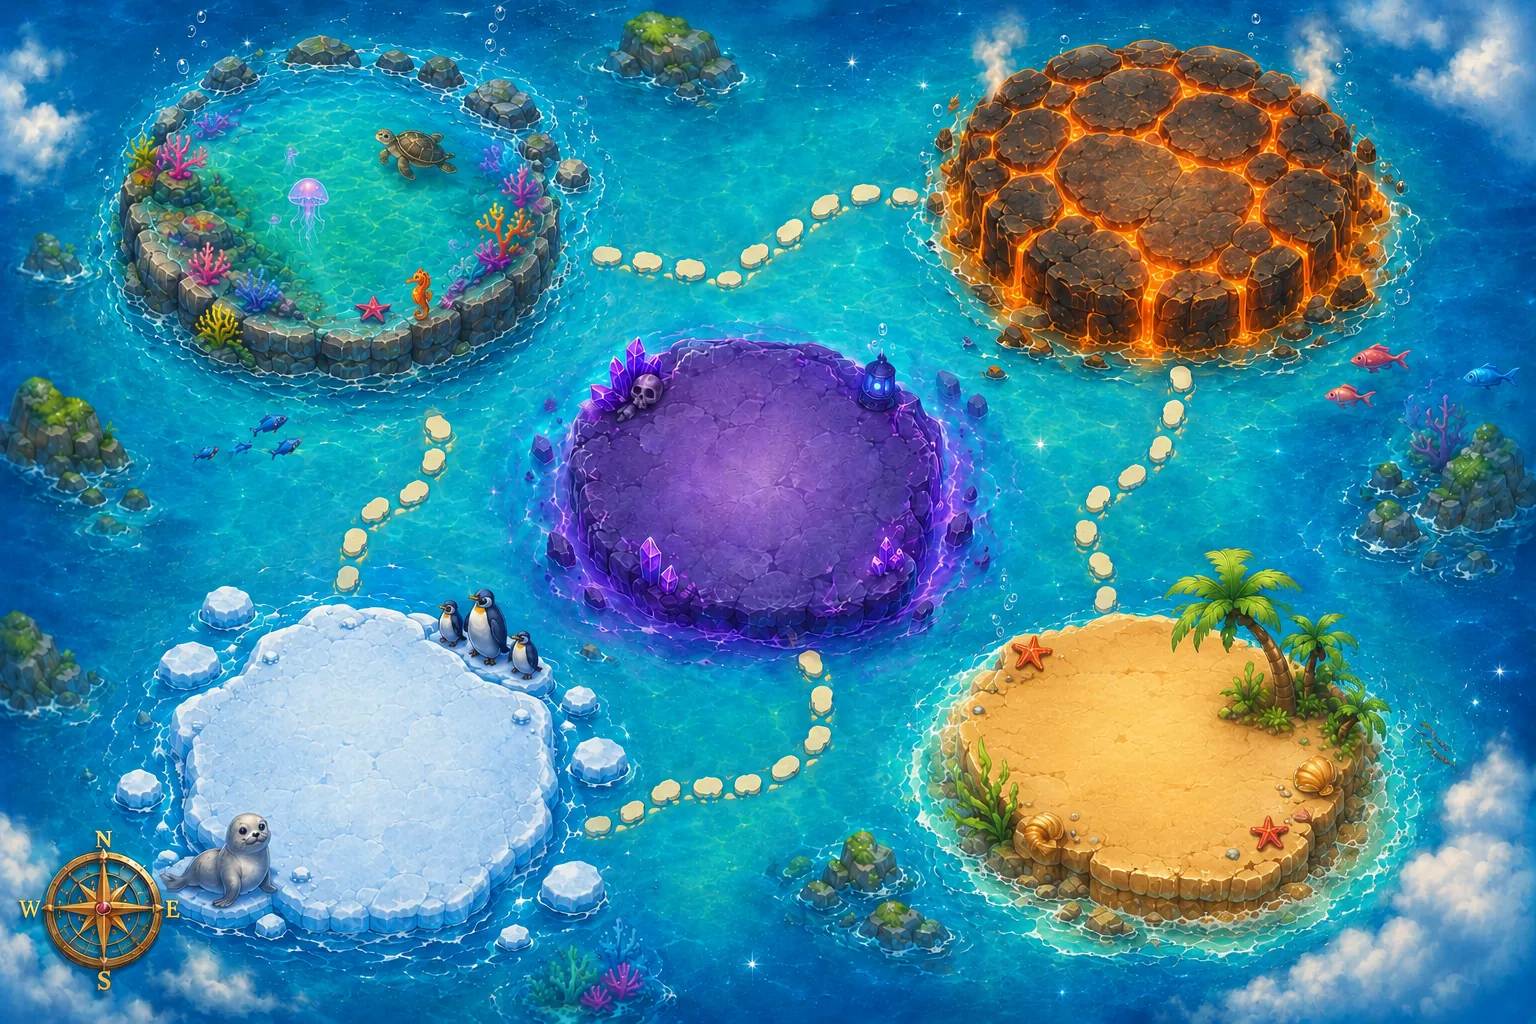
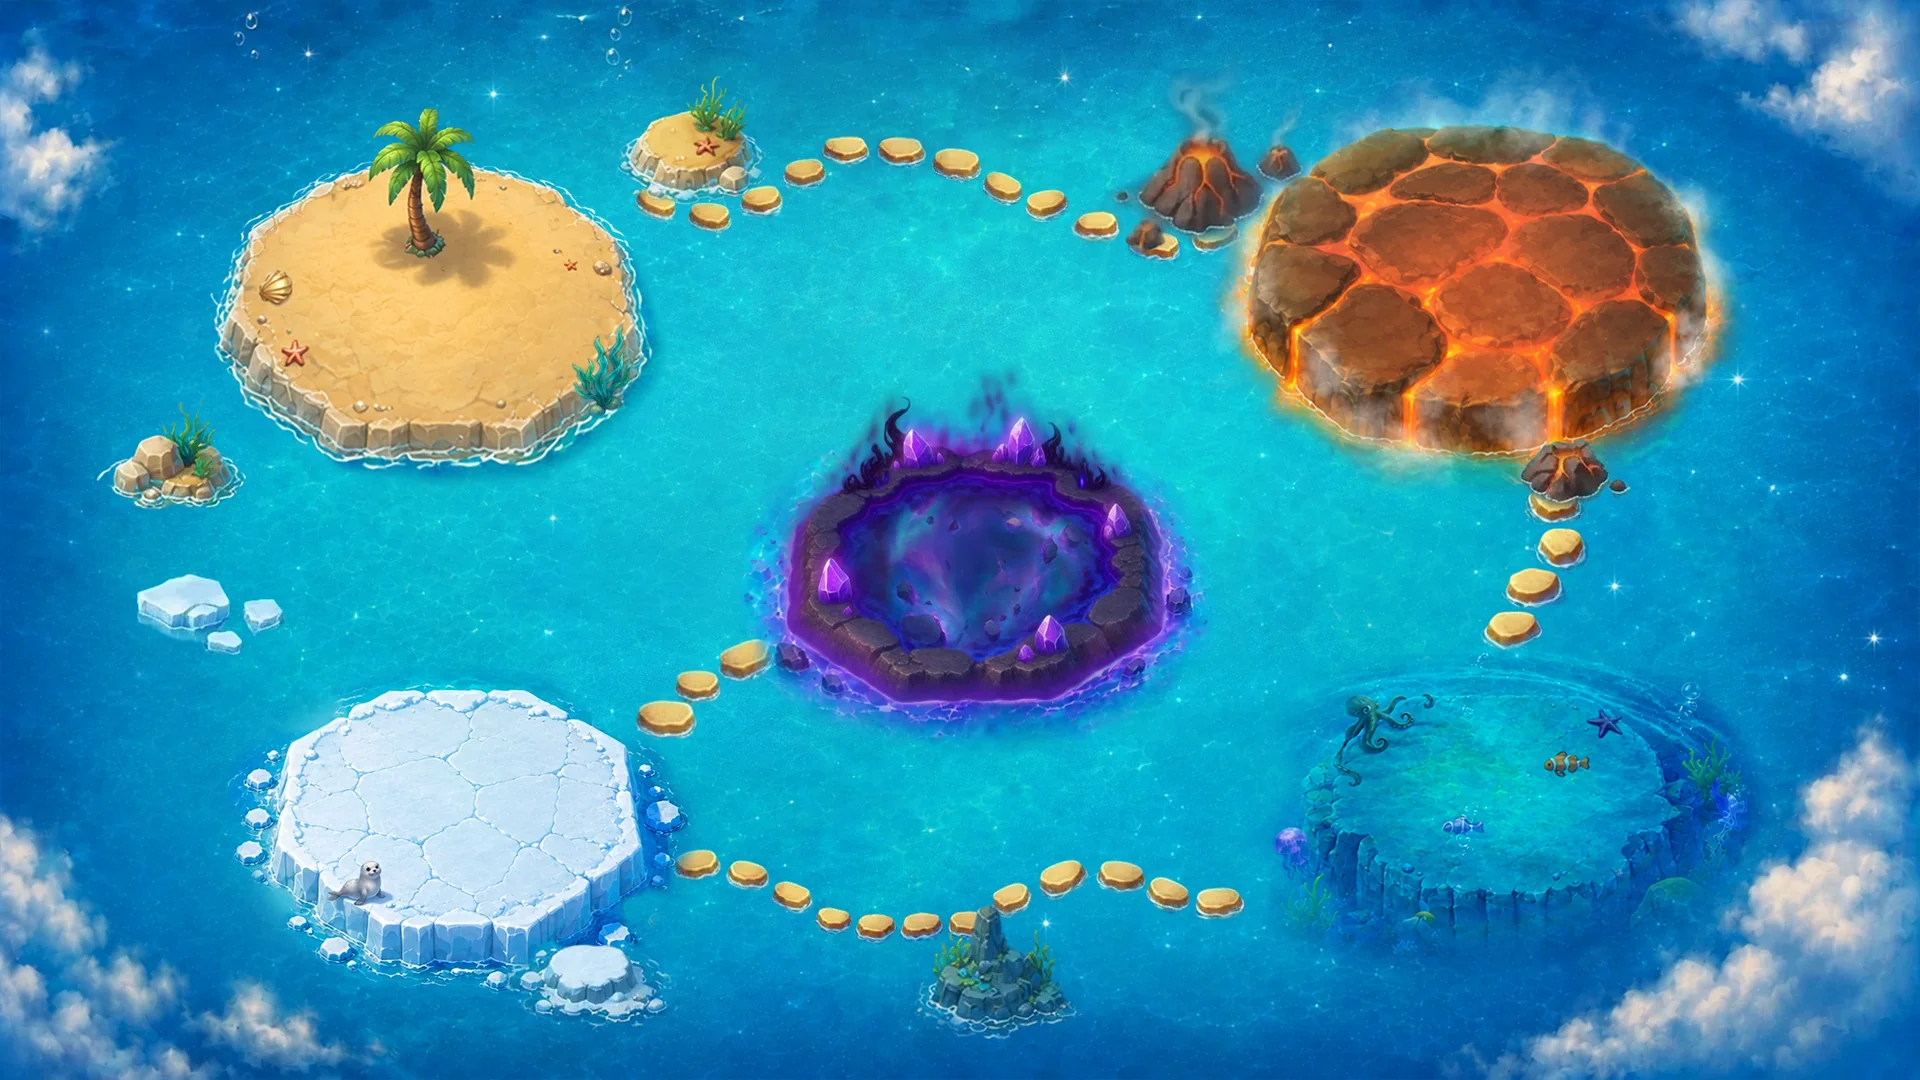
feat(journey): re-bake world map from new art pieces to match reference
Composite ocean bg + 5 chapter islands + stepping-stone paths + decor into
world-map.webp (1920x1080) and world-map-mobile.webp (1209x5679) via
scripts/build-journey-map.py. No annotation numbers.

diff --git a/scripts/build-journey-map.py b/scripts/build-journey-map.py
@@ -1,0 +1,92 @@
+#!/usr/bin/env python3
+"""Composite the Journey world maps from Oleg's art pieces.
+Layers: ocean background -> stepping-stone paths -> 5 chapter islands -> decoration.
+Outputs public/assets/campaign/world-map.webp (desktop 16:9) and world-map-mobile.webp (tall portrait).
+Coordinates are FRACTIONS of the canvas (0..1): (cx, cy) = piece center, w = piece width / canvas width.
+Tune the tables below against public/assets/journey/Как оно должно выглядеть*.png until the layout matches."""
+import os
+from PIL import Image
+
+ROOT = os.path.dirname(os.path.dirname(os.path.abspath(__file__)))
+J = os.path.join(ROOT, 'public/assets/journey')
+OUT = os.path.join(ROOT, 'public/assets/campaign')
+
+
+def load(rel):
+    return Image.open(os.path.join(J, rel)).convert('RGBA')
+
+
+def place(canvas, piece, cx, cy, wfrac):
+    """Scale piece to wfrac*canvas_width, paste centered at (cx,cy) fractions, respecting alpha."""
+    W, H = canvas.size
+    tw = max(1, int(wfrac * W))
+    th = max(1, round(piece.height * tw / piece.width))
+    p = piece.resize((tw, th), Image.LANCZOS)
+    x = int(cx * W) - tw // 2
+    y = int(cy * H) - th // 2
+    canvas.alpha_composite(p, (x, y))
+
+
+# ---- DESKTOP (1920x1080) ----
+DESK_BG = 'journey_background/journey_bg.webp'
+DESK_PATHS = [  # (file, cx, cy, wfrac) — behind islands
+    ('path/path1.webp', 0.50, 0.19, 0.34),   # lagoon -> lava (top S-curve)
+    ('path/path2.webp', 0.80, 0.51, 0.06),   # lava -> reef (right, vertical)
+    ('path/path3.webp', 0.50, 0.83, 0.30),   # reef -> arctic (bottom)
+    ('path/path4.webp', 0.38, 0.64, 0.10),   # arctic -> abyss
+]
+DESK_ISLANDS = [  # (file, cx, cy, wfrac)
+    ('journey_big_island/NormIsland_journey.webp', 0.23, 0.28, 0.25),  # lagoon
+    ('journey_big_island/Lava_journey.webp',       0.77, 0.26, 0.30),  # volcano
+    ('journey_big_island/Reef_journey.webp',       0.78, 0.76, 0.30),  # reef
+    ('journey_big_island/Arctic_journey.webp',     0.24, 0.77, 0.26),  # arctic
+    ('journey_big_island/Abyss_journey.webp',      0.51, 0.52, 0.26),  # abyss (grotto)
+]
+DESK_DECOR = [
+    ('small_island/small_island_1.webp', 0.36, 0.13, 0.08),
+    ('small_island/small_island_3.webp', 0.63, 0.14, 0.11),  # big volcano near lava
+    ('small_island/small_island_4.webp', 0.82, 0.44, 0.06),  # small volcano
+    ('small_island/small_island_5.webp', 0.52, 0.90, 0.09),  # rock spire
+    ('small_island/small_island_6.webp', 0.11, 0.57, 0.08),  # ice floe
+    ('small_island/small_island_7.webp', 0.31, 0.90, 0.10),  # ice floe near arctic
+    ('small_island/small_island_2.webp', 0.09, 0.42, 0.08),  # rocks
+]
+
+# ---- MOBILE (1209x5679) ----
+MOB_BG = 'journey_background/journey_background_mobile1.webp'
+MOB_PATHS = [
+    ('path/path1_mobile.webp', 0.50, 0.185, 0.14),
+    ('path/path2_mobile.webp', 0.50, 0.395, 0.17),
+    ('path/path1_mobile.webp', 0.50, 0.605, 0.14),
+    ('path/path2_mobile.webp', 0.50, 0.815, 0.17),
+]
+MOB_ISLANDS = [
+    ('journey_big_island/NormIsland_journey.webp', 0.50, 0.08, 0.55),
+    ('journey_big_island/Lava_journey.webp',       0.50, 0.29, 0.66),
+    ('journey_big_island/Reef_journey.webp',       0.50, 0.50, 0.62),
+    ('journey_big_island/Arctic_journey.webp',     0.50, 0.71, 0.55),
+    ('journey_big_island/Abyss_journey.webp',      0.50, 0.92, 0.58),
+]
+MOB_DECOR = [
+    ('small_island/small_island_1.webp', 0.80, 0.05, 0.14),
+    ('small_island/small_island_3.webp', 0.80, 0.20, 0.16),  # volcano near lava
+    ('small_island/small_island_5.webp', 0.80, 0.60, 0.14),  # rock near reef
+    ('small_island/small_island_6.webp', 0.18, 0.63, 0.14),  # ice near arctic
+    ('small_island/small_island_7.webp', 0.80, 0.80, 0.16),  # ice
+]
+
+
+def build(size, bg, paths, islands, decor, out_name, quality=85):
+    canvas = Image.new('RGBA', size, (0, 0, 0, 0))
+    base = load(bg).resize(size, Image.LANCZOS)
+    canvas.alpha_composite(base)
+    for f, cx, cy, w in paths + islands + decor:
+        place(canvas, load(f), cx, cy, w)
+    dst = os.path.join(OUT, out_name)
+    canvas.convert('RGB').save(dst, 'WEBP', quality=quality, method=6)
+    print(f"wrote {dst} {size[0]}x{size[1]} ({os.path.getsize(dst) // 1024} KB)")
+
+
+build((1920, 1080), DESK_BG, DESK_PATHS, DESK_ISLANDS, DESK_DECOR, 'world-map.webp', quality=85)
+build((1209, 5679), MOB_BG, MOB_PATHS, MOB_ISLANDS, MOB_DECOR, 'world-map-mobile.webp', quality=80)
+print("done")